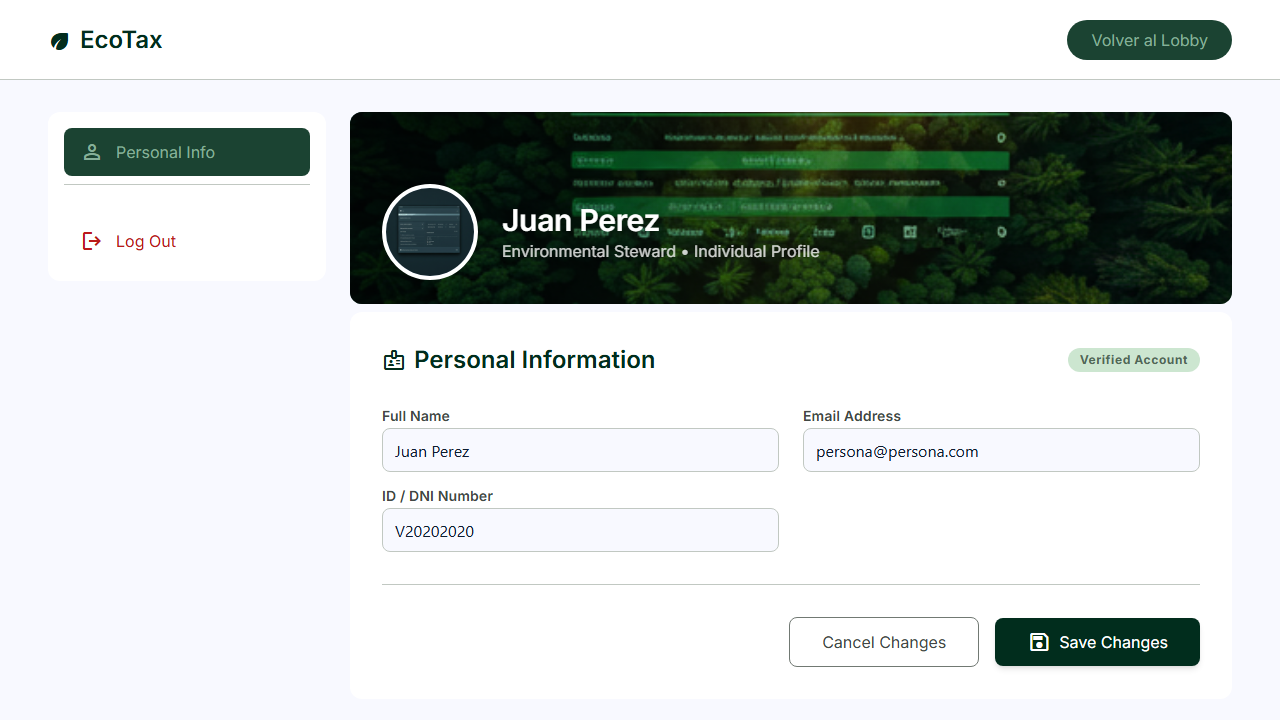
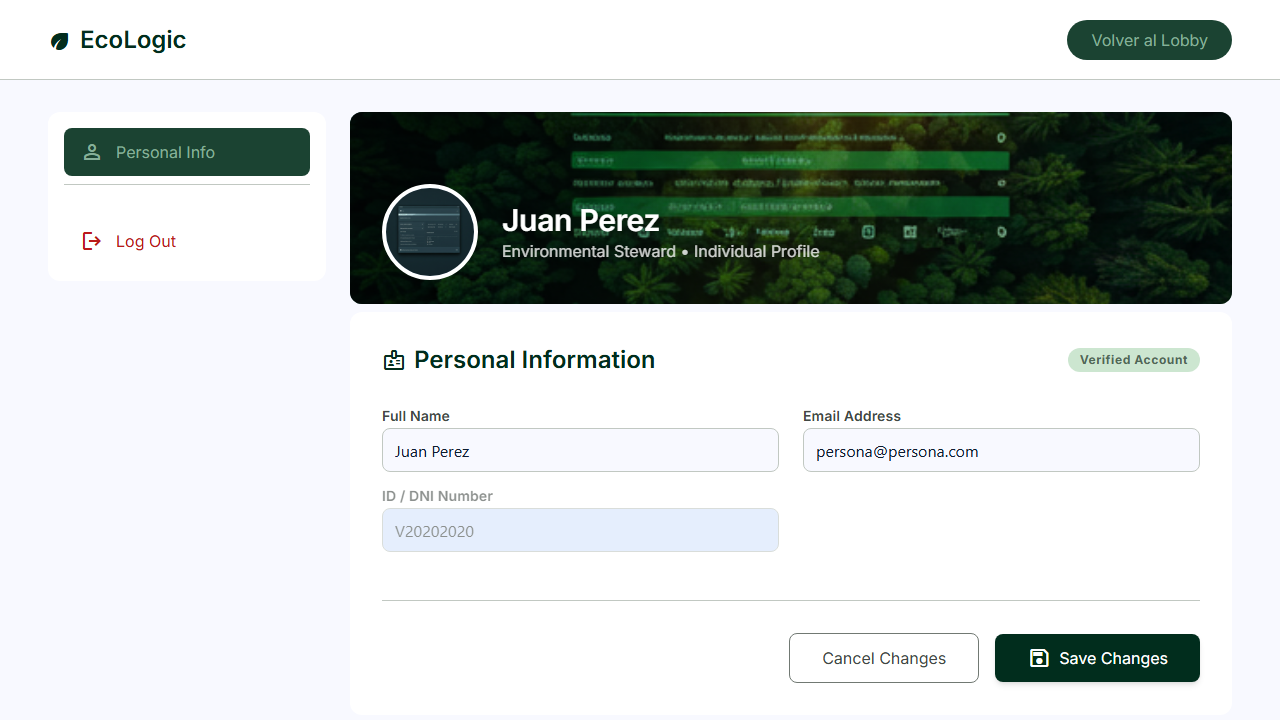
Arreglar problemas del backend

diff --git a/Frontend/jest.config.ts b/Frontend/jest.config.ts
@@ -5,6 +5,13 @@ const config: Config = {
   // Especificamos el entorno DOM completo para React
   testEnvironment: 'jest-environment-jsdom', 
   setupFilesAfterEnv: ['@testing-library/jest-dom'],
+  
+  // Añadimos los patrones para ignorar carpetas
+  testPathIgnorePatterns: [
+    '/node_modules/',
+    '/tests/' // <--- Esto le dice a Jest que ignore tu carpeta "test" por completo
+  ],
+
   moduleNameMapper: {
     // Evita que Jest choque si importas archivos CSS en tus componentes
     '\\.(css|less|sass|scss)$': 'identity-obj-proxy',

diff --git a/Frontend/tests/pago.spec.ts b/Frontend/tests/pago.spec.ts
@@ -12,7 +12,7 @@ test.describe('Flujo de Pago - Pago Móvil', () => {
         // ============================================
         // PASO 1: Iniciar sesión
         // ============================================
-        await page.goto('/');
+        await page.goto('http://localhost:5173/');  await page.goto('/'); 
         await expect(page.getByText('EcoLogic')).toBeVisible();
         await page.getByRole('button', { name: 'Iniciar sesión' }).click();
         await page.waitForTimeout(1000);

diff --git a/Frontend/tests/persona.spec.ts b/Frontend/tests/persona.spec.ts
@@ -12,7 +12,7 @@ test.describe('Panel de Persona - LobbyPersona', () => {
         // ============================================
         // PASO 1: Iniciar sesión
         // ============================================
-        await page.goto('/');
+         await page.goto('http://localhost:5173/');
         await expect(page.getByText('EcoLogic')).toBeVisible();
         await page.getByRole('button', { name: 'Iniciar sesión' }).click();
         await page.waitForTimeout(1000);

diff --git a/Backend/internal/services/usuario_service.go b/Backend/internal/services/usuario_service.go
@@ -1,8 +1,3 @@
-/*
-Ya se la saben xD
-
-Este archivo unifica los servicios para los usuarios persona y empresa
-*/
 package services
 
 import (
@@ -35,7 +30,7 @@ func NewUsuarioService(
 	}
 }
 
-// GetDeudaVigente ahora calcula: Monto Original - Total Abonado
+// GetDeudaVigente ahora calcula de forma precisa la suma pendiente real
 func (s *UsuarioService) GetDeudaVigente(ctx context.Context, usuarioID string) (*DeudaResponse, error) {
 	deudas, err := s.deudaRepo.FindVigentesByUsuario(ctx, usuarioID)
 	if err != nil {
@@ -47,32 +42,82 @@ func (s *UsuarioService) GetDeudaVigente(ctx context.Context, usuarioID string) 
 		totalDeuda += d.Monto
 	}
 
-	// Restamos lo que ya se ha abonado (necesitas implementar esta lógica en el repo)
-	abonos, _ := s.deudaRepo.GetAllAbonosByUsuario(ctx, usuarioID)
+	abonos, err := s.deudaRepo.GetAllAbonosByUsuario(ctx, usuarioID)
+	if err != nil {
+		return nil, err
+	}
+
 	totalAbonado := 0.0
 	for _, a := range abonos {
 		totalAbonado += a.Monto
 	}
 
+	montoPendiente := totalDeuda - totalAbonado
+	if montoPendiente < 0 {
+		montoPendiente = 0
+	}
+
 	return &DeudaResponse{
-		Monto:    totalDeuda - totalAbonado,
-		HasDeuda: (totalDeuda - totalAbonado) > 0,
+		Monto:    montoPendiente,
+		HasDeuda: montoPendiente > 0,
 	}, nil
 }
 
-// RegistrarAbono es la nueva lógica de pago
+// RegistrarAbono ahora cierra la deuda automáticamente si se salda por completo
 func (s *UsuarioService) RegistrarAbono(ctx context.Context, usuarioID string, monto float64) error {
+	if monto <= 0 {
+		return errors.New("el monto del abono debe ser mayor a cero")
+	}
+
 	deudas, err := s.deudaRepo.FindVigentesByUsuario(ctx, usuarioID)
-	if err != nil || len(deudas) == 0 {
+	if err != nil {
+		return err
+	}
+	if len(deudas) == 0 {
 		return errors.New("no hay deudas vigentes para abonar")
 	}
 
-	// Tomamos la primera deuda vigente (o implementa lógica de prioridad FIFO)
+	// Estrategia FIFO: Abonamos a la deuda más antigua que esté vigente
 	deuda := deudas[0]
-	return s.deudaRepo.CreateAbono(ctx, deuda.ID, monto)
+
+	// Buscamos cuánto se ha abonado específicamente a ESTA deuda anteriormente
+	// Nota: Para sistemas multi-deuda es ideal filtrar abonos por deuda.ID en el futuro
+	abonos, err := s.deudaRepo.GetAllAbonosByUsuario(ctx, usuarioID)
+	if err != nil {
+		return err
+	}
+
+	totalAbonadoAnterior := 0.0
+	for _, a := range abonos {
+		if a.DeudaID == deuda.ID {
+			totalAbonadoAnterior += a.Monto
+		}
+	}
+
+	saldoPendienteDeuda := deuda.Monto - totalAbonadoAnterior
+
+	if monto > saldoPendienteDeuda {
+		return errors.New("el monto del abono supera el saldo pendiente de la deuda")
+	}
+
+	// 1. Registramos el abono real en la tabla de Abonos
+	err = s.deudaRepo.CreateAbono(ctx, deuda.ID, monto)
+	if err != nil {
+		return err
+	}
+
+	// 2. Si el nuevo abono liquida la deuda, la desactivamos (Vigente = false)
+	if (totalAbonadoAnterior + monto) >= deuda.Monto {
+		err = s.deudaRepo.UpdateEstadoDeuda(ctx, deuda.ID, false)
+		if err != nil {
+			return err
+		}
+	}
+
+	return nil
 }
 
-// GetEstadisticasUsuario calcula los 4 KPIs solicitados
+// GetEstadisticasUsuario expone de manera limpia la data calculada para los KPIs
 func (s *UsuarioService) GetEstadisticasUsuario(ctx context.Context, usuarioID string) (map[string]interface{}, error) {
 	abonos, err := s.deudaRepo.GetAllAbonosByUsuario(ctx, usuarioID)
 	if err != nil {
@@ -88,17 +133,19 @@ func (s *UsuarioService) GetEstadisticasUsuario(ctx context.Context, usuarioID s
 		}
 	}
 
-	deuda, _ := s.GetDeudaVigente(ctx, usuarioID)
+	deudaResp, err := s.GetDeudaVigente(ctx, usuarioID)
+	if err != nil {
+		return nil, err
+	}
 
 	return map[string]interface{}{
 		"total_abonado":   totalAbonado,
 		"maximo_abono":    maxAbono,
-		"deuda_pendiente": deuda.Monto,
+		"deuda_pendiente": deudaResp.Monto,
 		"historial":       abonos,
 	}, nil
 }
 
-// Métodos anteriores se mantienen igual...
 func (s *UsuarioService) ListEstadosConTasa(ctx context.Context) ([]domain.EstadoConTasa, error) {
 	return s.estadoRepo.ListAll(ctx)
 }
